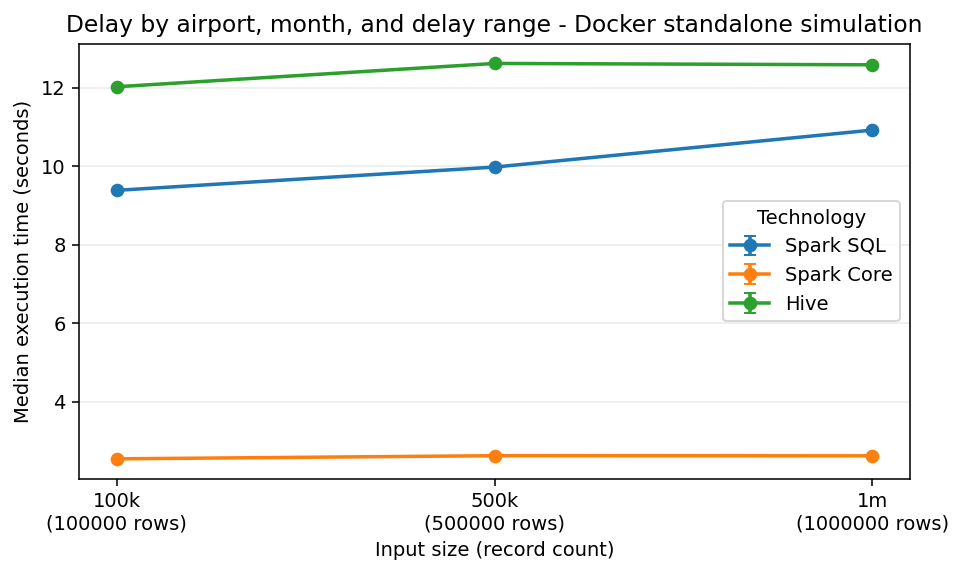
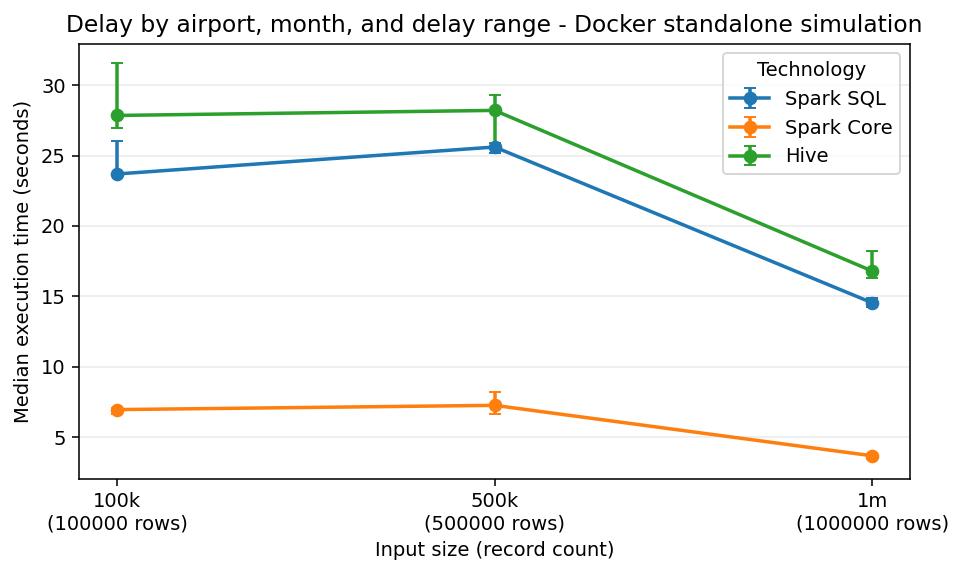
P1.3: rerun required Docker simulation benchmarks
- Add 3-repetition Docker simulation evidence for 100k, 500k, and 1m
- Regenerate benchmark tables, charts, environment summary, and report PDF
- Remove obsolete Docker single-run benchmark note
- Restore canonical local validation outputs after benchmark run
- Verify with focused benchmark/chart/submission tests and submission check

diff --git a/report/tables/benchmark_status.md b/report/tables/benchmark_status.md
@@ -32,24 +32,24 @@
 | aws-emr-larger | full | 7079081 | airline_airport_ranking | Spark SQL | success | 4.475255 | 1738 |  | m5-emr-3core-1m-full | 2026-05-22T00:46:03.790422+00:00 | benchmark_m5-emr-3core-1m-full.csv |
 | aws-emr-larger | full | 7079081 | delay_by_airport_month | Spark Core | success | 1.617607 | 11902 |  | m5-emr-3core-1m-full | 2026-05-22T00:46:03.790422+00:00 | benchmark_m5-emr-3core-1m-full.csv |
 | aws-emr-larger | full | 7079081 | delay_by_airport_month | Spark SQL | success | 16.309206 | 11902 |  | m5-emr-3core-1m-full | 2026-05-22T00:46:03.790422+00:00 | benchmark_m5-emr-3core-1m-full.csv |
-| docker-simulation | 100k | 100000 | airline_airport_ranking | Hive | success | 8.983241 | 1641 |  | 20260521T160042313560Z | 2026-05-21T16:00:42.313560+00:00 | benchmark_20260521T160042313560Z.csv |
-| docker-simulation | 100k | 100000 | airline_airport_ranking | Spark Core | success | 2.325111 | 1641 |  | 20260521T160042313560Z | 2026-05-21T16:00:42.313560+00:00 | benchmark_20260521T160042313560Z.csv |
-| docker-simulation | 100k | 100000 | airline_airport_ranking | Spark SQL | success | 4.009541 | 1641 |  | 20260521T160042313560Z | 2026-05-21T16:00:42.313560+00:00 | benchmark_20260521T160042313560Z.csv |
-| docker-simulation | 100k | 100000 | delay_by_airport_month | Hive | success | 12.025335 | 6367 |  | 20260521T160042313560Z | 2026-05-21T16:00:42.313560+00:00 | benchmark_20260521T160042313560Z.csv |
-| docker-simulation | 100k | 100000 | delay_by_airport_month | Spark Core | success | 2.542541 | 6367 |  | 20260521T160042313560Z | 2026-05-21T16:00:42.313560+00:00 | benchmark_20260521T160042313560Z.csv |
-| docker-simulation | 100k | 100000 | delay_by_airport_month | Spark SQL | success | 9.385332 | 6367 |  | 20260521T160042313560Z | 2026-05-21T16:00:42.313560+00:00 | benchmark_20260521T160042313560Z.csv |
-| docker-simulation | 500k | 500000 | airline_airport_ranking | Hive | success | 8.971989 | 1707 |  | 20260521T160042313560Z | 2026-05-21T16:00:42.313560+00:00 | benchmark_20260521T160042313560Z.csv |
-| docker-simulation | 500k | 500000 | airline_airport_ranking | Spark Core | success | 2.434149 | 1707 |  | 20260521T160042313560Z | 2026-05-21T16:00:42.313560+00:00 | benchmark_20260521T160042313560Z.csv |
-| docker-simulation | 500k | 500000 | airline_airport_ranking | Spark SQL | success | 5.61692 | 1707 |  | 20260521T160042313560Z | 2026-05-21T16:00:42.313560+00:00 | benchmark_20260521T160042313560Z.csv |
-| docker-simulation | 500k | 500000 | delay_by_airport_month | Hive | success | 12.619246 | 9265 |  | 20260521T160042313560Z | 2026-05-21T16:00:42.313560+00:00 | benchmark_20260521T160042313560Z.csv |
-| docker-simulation | 500k | 500000 | delay_by_airport_month | Spark Core | success | 2.622557 | 9265 |  | 20260521T160042313560Z | 2026-05-21T16:00:42.313560+00:00 | benchmark_20260521T160042313560Z.csv |
-| docker-simulation | 500k | 500000 | delay_by_airport_month | Spark SQL | success | 9.977788 | 9265 |  | 20260521T160042313560Z | 2026-05-21T16:00:42.313560+00:00 | benchmark_20260521T160042313560Z.csv |
-| docker-simulation | 1m | 1000000 | airline_airport_ranking | Hive | success | 8.90054 | 1723 |  | 20260521T160042313560Z | 2026-05-21T16:00:42.313560+00:00 | benchmark_20260521T160042313560Z.csv |
-| docker-simulation | 1m | 1000000 | airline_airport_ranking | Spark Core | success | 2.33426 | 1723 |  | 20260521T160042313560Z | 2026-05-21T16:00:42.313560+00:00 | benchmark_20260521T160042313560Z.csv |
-| docker-simulation | 1m | 1000000 | airline_airport_ranking | Spark SQL | success | 4.443603 | 1723 |  | 20260521T160042313560Z | 2026-05-21T16:00:42.313560+00:00 | benchmark_20260521T160042313560Z.csv |
-| docker-simulation | 1m | 1000000 | delay_by_airport_month | Hive | success | 12.584457 | 10206 |  | 20260521T160042313560Z | 2026-05-21T16:00:42.313560+00:00 | benchmark_20260521T160042313560Z.csv |
-| docker-simulation | 1m | 1000000 | delay_by_airport_month | Spark Core | success | 2.619216 | 10206 |  | 20260521T160042313560Z | 2026-05-21T16:00:42.313560+00:00 | benchmark_20260521T160042313560Z.csv |
-| docker-simulation | 1m | 1000000 | delay_by_airport_month | Spark SQL | success | 10.92056 | 10206 |  | 20260521T160042313560Z | 2026-05-21T16:00:42.313560+00:00 | benchmark_20260521T160042313560Z.csv |
+| docker-simulation | 100k | 100000 | airline_airport_ranking | Hive | success | 17.959624 | 1641 |  | 20260522T161751426398Z | 2026-05-22T16:17:51.426398+00:00 | benchmark_20260522T161751426398Z.csv |
+| docker-simulation | 100k | 100000 | airline_airport_ranking | Spark Core | success | 6.213548 | 1641 |  | 20260522T161751426398Z | 2026-05-22T16:17:51.426398+00:00 | benchmark_20260522T161751426398Z.csv |
+| docker-simulation | 100k | 100000 | airline_airport_ranking | Spark SQL | success | 12.685189 | 1641 |  | 20260522T161751426398Z | 2026-05-22T16:17:51.426398+00:00 | benchmark_20260522T161751426398Z.csv |
+| docker-simulation | 100k | 100000 | delay_by_airport_month | Hive | success | 27.848052 | 6367 |  | 20260522T161751426398Z | 2026-05-22T16:17:51.426398+00:00 | benchmark_20260522T161751426398Z.csv |
+| docker-simulation | 100k | 100000 | delay_by_airport_month | Spark Core | success | 7.085845 | 6367 |  | 20260522T161751426398Z | 2026-05-22T16:17:51.426398+00:00 | benchmark_20260522T161751426398Z.csv |
+| docker-simulation | 100k | 100000 | delay_by_airport_month | Spark SQL | success | 26.054633 | 6367 |  | 20260522T161751426398Z | 2026-05-22T16:17:51.426398+00:00 | benchmark_20260522T161751426398Z.csv |
+| docker-simulation | 500k | 500000 | airline_airport_ranking | Hive | success | 10.344782 | 1707 |  | 20260522T161751426398Z | 2026-05-22T16:17:51.426398+00:00 | benchmark_20260522T161751426398Z.csv |
+| docker-simulation | 500k | 500000 | airline_airport_ranking | Spark Core | success | 6.414528 | 1707 |  | 20260522T161751426398Z | 2026-05-22T16:17:51.426398+00:00 | benchmark_20260522T161751426398Z.csv |
+| docker-simulation | 500k | 500000 | airline_airport_ranking | Spark SQL | success | 12.53712 | 1707 |  | 20260522T161751426398Z | 2026-05-22T16:17:51.426398+00:00 | benchmark_20260522T161751426398Z.csv |
+| docker-simulation | 500k | 500000 | delay_by_airport_month | Hive | success | 25.90275 | 9265 |  | 20260522T161751426398Z | 2026-05-22T16:17:51.426398+00:00 | benchmark_20260522T161751426398Z.csv |
+| docker-simulation | 500k | 500000 | delay_by_airport_month | Spark Core | success | 8.201698 | 9265 |  | 20260522T161751426398Z | 2026-05-22T16:17:51.426398+00:00 | benchmark_20260522T161751426398Z.csv |
+| docker-simulation | 500k | 500000 | delay_by_airport_month | Spark SQL | success | 25.677885 | 9265 |  | 20260522T161751426398Z | 2026-05-22T16:17:51.426398+00:00 | benchmark_20260522T161751426398Z.csv |
+| docker-simulation | 1m | 1000000 | airline_airport_ranking | Hive | success | 11.300811 | 1723 |  | 20260522T161751426398Z | 2026-05-22T16:17:51.426398+00:00 | benchmark_20260522T161751426398Z.csv |
+| docker-simulation | 1m | 1000000 | airline_airport_ranking | Spark Core | success | 3.043644 | 1723 |  | 20260522T161751426398Z | 2026-05-22T16:17:51.426398+00:00 | benchmark_20260522T161751426398Z.csv |
+| docker-simulation | 1m | 1000000 | airline_airport_ranking | Spark SQL | success | 5.696732 | 1723 |  | 20260522T161751426398Z | 2026-05-22T16:17:51.426398+00:00 | benchmark_20260522T161751426398Z.csv |
+| docker-simulation | 1m | 1000000 | delay_by_airport_month | Hive | success | 18.24548 | 10206 |  | 20260522T161751426398Z | 2026-05-22T16:17:51.426398+00:00 | benchmark_20260522T161751426398Z.csv |
+| docker-simulation | 1m | 1000000 | delay_by_airport_month | Spark Core | success | 3.829174 | 10206 |  | 20260522T161751426398Z | 2026-05-22T16:17:51.426398+00:00 | benchmark_20260522T161751426398Z.csv |
+| docker-simulation | 1m | 1000000 | delay_by_airport_month | Spark SQL | success | 14.540799 | 10206 |  | 20260522T161751426398Z | 2026-05-22T16:17:51.426398+00:00 | benchmark_20260522T161751426398Z.csv |
 | local | 100k | 100000 | airline_airport_ranking | Hive | success | 13.910368 | 1641 |  | 20260522T133525179005Z | 2026-05-22T13:35:25.179005+00:00 | benchmark_20260522T133525179005Z.csv |
 | local | 100k | 100000 | airline_airport_ranking | MapReduce | success | 6.550597 | 1641 |  | 20260521T153912538439Z | 2026-05-21T15:39:12.538439+00:00 | benchmark_20260521T153912538439Z.csv |
 | local | 100k | 100000 | airline_airport_ranking | Spark Core | success | 0.960478 | 1641 |  | 20260522T133525179005Z | 2026-05-22T13:35:25.179005+00:00 | benchmark_20260522T133525179005Z.csv |

diff --git a/report/tables/benchmark_summary.md b/report/tables/benchmark_summary.md
@@ -32,24 +32,24 @@
 | aws-emr-larger | full | 7079081 | airline_airport_ranking | Spark SQL | 3 | 4.475 | 4.583 | 4.34 | 4.934 | 0.312 | 1738 | m5-emr-3core-1m-full | 2026-05-22T00:46:03.790422+00:00 |
 | aws-emr-larger | full | 7079081 | delay_by_airport_month | Spark Core | 3 | 1.65 | 1.694 | 1.618 | 1.813 | 0.105 | 11902 | m5-emr-3core-1m-full | 2026-05-22T00:46:03.790422+00:00 |
 | aws-emr-larger | full | 7079081 | delay_by_airport_month | Spark SQL | 3 | 16.309 | 15.691 | 14.437 | 16.328 | 1.086 | 11902 | m5-emr-3core-1m-full | 2026-05-22T00:46:03.790422+00:00 |
-| docker-simulation | 100k | 100000 | airline_airport_ranking | Hive | 1 | 8.983 | 8.983 | 8.983 | 8.983 |  | 1641 | 20260521T160042313560Z | 2026-05-21T16:00:42.313560+00:00 |
-| docker-simulation | 100k | 100000 | airline_airport_ranking | Spark Core | 1 | 2.325 | 2.325 | 2.325 | 2.325 |  | 1641 | 20260521T160042313560Z | 2026-05-21T16:00:42.313560+00:00 |
-| docker-simulation | 100k | 100000 | airline_airport_ranking | Spark SQL | 1 | 4.01 | 4.01 | 4.01 | 4.01 |  | 1641 | 20260521T160042313560Z | 2026-05-21T16:00:42.313560+00:00 |
-| docker-simulation | 100k | 100000 | delay_by_airport_month | Hive | 1 | 12.025 | 12.025 | 12.025 | 12.025 |  | 6367 | 20260521T160042313560Z | 2026-05-21T16:00:42.313560+00:00 |
-| docker-simulation | 100k | 100000 | delay_by_airport_month | Spark Core | 1 | 2.543 | 2.543 | 2.543 | 2.543 |  | 6367 | 20260521T160042313560Z | 2026-05-21T16:00:42.313560+00:00 |
-| docker-simulation | 100k | 100000 | delay_by_airport_month | Spark SQL | 1 | 9.385 | 9.385 | 9.385 | 9.385 |  | 6367 | 20260521T160042313560Z | 2026-05-21T16:00:42.313560+00:00 |
-| docker-simulation | 500k | 500000 | airline_airport_ranking | Hive | 1 | 8.972 | 8.972 | 8.972 | 8.972 |  | 1707 | 20260521T160042313560Z | 2026-05-21T16:00:42.313560+00:00 |
-| docker-simulation | 500k | 500000 | airline_airport_ranking | Spark Core | 1 | 2.434 | 2.434 | 2.434 | 2.434 |  | 1707 | 20260521T160042313560Z | 2026-05-21T16:00:42.313560+00:00 |
-| docker-simulation | 500k | 500000 | airline_airport_ranking | Spark SQL | 1 | 5.617 | 5.617 | 5.617 | 5.617 |  | 1707 | 20260521T160042313560Z | 2026-05-21T16:00:42.313560+00:00 |
-| docker-simulation | 500k | 500000 | delay_by_airport_month | Hive | 1 | 12.619 | 12.619 | 12.619 | 12.619 |  | 9265 | 20260521T160042313560Z | 2026-05-21T16:00:42.313560+00:00 |
-| docker-simulation | 500k | 500000 | delay_by_airport_month | Spark Core | 1 | 2.623 | 2.623 | 2.623 | 2.623 |  | 9265 | 20260521T160042313560Z | 2026-05-21T16:00:42.313560+00:00 |
-| docker-simulation | 500k | 500000 | delay_by_airport_month | Spark SQL | 1 | 9.978 | 9.978 | 9.978 | 9.978 |  | 9265 | 20260521T160042313560Z | 2026-05-21T16:00:42.313560+00:00 |
-| docker-simulation | 1m | 1000000 | airline_airport_ranking | Hive | 1 | 8.901 | 8.901 | 8.901 | 8.901 |  | 1723 | 20260521T160042313560Z | 2026-05-21T16:00:42.313560+00:00 |
-| docker-simulation | 1m | 1000000 | airline_airport_ranking | Spark Core | 1 | 2.334 | 2.334 | 2.334 | 2.334 |  | 1723 | 20260521T160042313560Z | 2026-05-21T16:00:42.313560+00:00 |
-| docker-simulation | 1m | 1000000 | airline_airport_ranking | Spark SQL | 1 | 4.444 | 4.444 | 4.444 | 4.444 |  | 1723 | 20260521T160042313560Z | 2026-05-21T16:00:42.313560+00:00 |
-| docker-simulation | 1m | 1000000 | delay_by_airport_month | Hive | 1 | 12.584 | 12.584 | 12.584 | 12.584 |  | 10206 | 20260521T160042313560Z | 2026-05-21T16:00:42.313560+00:00 |
-| docker-simulation | 1m | 1000000 | delay_by_airport_month | Spark Core | 1 | 2.619 | 2.619 | 2.619 | 2.619 |  | 10206 | 20260521T160042313560Z | 2026-05-21T16:00:42.313560+00:00 |
-| docker-simulation | 1m | 1000000 | delay_by_airport_month | Spark SQL | 1 | 10.921 | 10.921 | 10.921 | 10.921 |  | 10206 | 20260521T160042313560Z | 2026-05-21T16:00:42.313560+00:00 |
+| docker-simulation | 100k | 100000 | airline_airport_ranking | Hive | 3 | 18.288 | 18.243 | 17.96 | 18.481 | 0.263 | 1641 | 20260522T161751426398Z | 2026-05-22T16:17:51.426398+00:00 |
+| docker-simulation | 100k | 100000 | airline_airport_ranking | Spark Core | 3 | 6.214 | 6.142 | 5.99 | 6.223 | 0.132 | 1641 | 20260522T161751426398Z | 2026-05-22T16:17:51.426398+00:00 |
+| docker-simulation | 100k | 100000 | airline_airport_ranking | Spark SQL | 3 | 12.685 | 13.654 | 11.637 | 16.64 | 2.638 | 1641 | 20260522T161751426398Z | 2026-05-22T16:17:51.426398+00:00 |
+| docker-simulation | 100k | 100000 | delay_by_airport_month | Hive | 3 | 27.848 | 28.776 | 26.939 | 31.542 | 2.438 | 6367 | 20260522T161751426398Z | 2026-05-22T16:17:51.426398+00:00 |
+| docker-simulation | 100k | 100000 | delay_by_airport_month | Spark Core | 3 | 6.954 | 6.893 | 6.639 | 7.086 | 0.23 | 6367 | 20260522T161751426398Z | 2026-05-22T16:17:51.426398+00:00 |
+| docker-simulation | 100k | 100000 | delay_by_airport_month | Spark SQL | 3 | 23.69 | 24.446 | 23.594 | 26.055 | 1.394 | 6367 | 20260522T161751426398Z | 2026-05-22T16:17:51.426398+00:00 |
+| docker-simulation | 500k | 500000 | airline_airport_ranking | Hive | 3 | 18.131 | 15.771 | 10.345 | 18.836 | 4.712 | 1707 | 20260522T161751426398Z | 2026-05-22T16:17:51.426398+00:00 |
+| docker-simulation | 500k | 500000 | airline_airport_ranking | Spark Core | 3 | 5.974 | 6.105 | 5.926 | 6.415 | 0.269 | 1707 | 20260522T161751426398Z | 2026-05-22T16:17:51.426398+00:00 |
+| docker-simulation | 500k | 500000 | airline_airport_ranking | Spark SQL | 3 | 12.537 | 13.133 | 12.01 | 14.851 | 1.511 | 1707 | 20260522T161751426398Z | 2026-05-22T16:17:51.426398+00:00 |
+| docker-simulation | 500k | 500000 | delay_by_airport_month | Hive | 3 | 28.206 | 27.802 | 25.903 | 29.296 | 1.733 | 9265 | 20260522T161751426398Z | 2026-05-22T16:17:51.426398+00:00 |
+| docker-simulation | 500k | 500000 | delay_by_airport_month | Spark Core | 3 | 7.256 | 7.357 | 6.613 | 8.202 | 0.799 | 9265 | 20260522T161751426398Z | 2026-05-22T16:17:51.426398+00:00 |
+| docker-simulation | 500k | 500000 | delay_by_airport_month | Spark SQL | 3 | 25.606 | 25.493 | 25.197 | 25.678 | 0.26 | 9265 | 20260522T161751426398Z | 2026-05-22T16:17:51.426398+00:00 |
+| docker-simulation | 1m | 1000000 | airline_airport_ranking | Hive | 3 | 10.094 | 10.491 | 10.077 | 11.301 | 0.702 | 1723 | 20260522T161751426398Z | 2026-05-22T16:17:51.426398+00:00 |
+| docker-simulation | 1m | 1000000 | airline_airport_ranking | Spark Core | 3 | 3.044 | 3.017 | 2.93 | 3.079 | 0.078 | 1723 | 20260522T161751426398Z | 2026-05-22T16:17:51.426398+00:00 |
+| docker-simulation | 1m | 1000000 | airline_airport_ranking | Spark SQL | 3 | 5.869 | 6.162 | 5.697 | 6.922 | 0.663 | 1723 | 20260522T161751426398Z | 2026-05-22T16:17:51.426398+00:00 |
+| docker-simulation | 1m | 1000000 | delay_by_airport_month | Hive | 3 | 16.797 | 17.116 | 16.305 | 18.245 | 1.009 | 10206 | 20260522T161751426398Z | 2026-05-22T16:17:51.426398+00:00 |
+| docker-simulation | 1m | 1000000 | delay_by_airport_month | Spark Core | 3 | 3.673 | 3.653 | 3.457 | 3.829 | 0.187 | 10206 | 20260522T161751426398Z | 2026-05-22T16:17:51.426398+00:00 |
+| docker-simulation | 1m | 1000000 | delay_by_airport_month | Spark SQL | 3 | 14.541 | 14.559 | 14.242 | 14.895 | 0.327 | 10206 | 20260522T161751426398Z | 2026-05-22T16:17:51.426398+00:00 |
 | local | 100k | 100000 | airline_airport_ranking | Hive | 3 | 14.322 | 14.207 | 13.91 | 14.389 | 0.259 | 1641 | 20260522T133525179005Z | 2026-05-22T13:35:25.179005+00:00 |
 | local | 100k | 100000 | airline_airport_ranking | MapReduce | 1 | 6.551 | 6.551 | 6.551 | 6.551 |  | 1641 | 20260521T153912538439Z | 2026-05-21T15:39:12.538439+00:00 |
 | local | 100k | 100000 | airline_airport_ranking | Spark Core | 3 | 0.74 | 0.807 | 0.719 | 0.96 | 0.134 | 1641 | 20260522T133525179005Z | 2026-05-22T13:35:25.179005+00:00 |

diff --git a/report/tables/rows_per_second.md b/report/tables/rows_per_second.md
@@ -32,24 +32,24 @@
 | aws-emr-larger | full | 7079081 | airline_airport_ranking | Spark SQL | 4.475 | 1581827.404 |
 | aws-emr-larger | full | 7079081 | delay_by_airport_month | Spark Core | 1.65 | 4291101.113 |
 | aws-emr-larger | full | 7079081 | delay_by_airport_month | Spark SQL | 16.309 | 434054.3 |
-| docker-simulation | 100k | 100000 | airline_airport_ranking | Hive | 8.983 | 11131.84 |
-| docker-simulation | 100k | 100000 | airline_airport_ranking | Spark Core | 2.325 | 43008.699 |
-| docker-simulation | 100k | 100000 | airline_airport_ranking | Spark SQL | 4.01 | 24940.511 |
-| docker-simulation | 100k | 100000 | delay_by_airport_month | Hive | 12.025 | 8315.777 |
-| docker-simulation | 100k | 100000 | delay_by_airport_month | Spark Core | 2.543 | 39330.733 |
-| docker-simulation | 100k | 100000 | delay_by_airport_month | Spark SQL | 9.385 | 10654.924 |
-| docker-simulation | 500k | 500000 | airline_airport_ranking | Hive | 8.972 | 55729.003 |
-| docker-simulation | 500k | 500000 | airline_airport_ranking | Spark Core | 2.434 | 205410.597 |
-| docker-simulation | 500k | 500000 | airline_airport_ranking | Spark SQL | 5.617 | 89016.757 |
-| docker-simulation | 500k | 500000 | delay_by_airport_month | Hive | 12.619 | 39622.019 |
-| docker-simulation | 500k | 500000 | delay_by_airport_month | Spark Core | 2.623 | 190653.625 |
-| docker-simulation | 500k | 500000 | delay_by_airport_month | Spark SQL | 9.978 | 50111.307 |
-| docker-simulation | 1m | 1000000 | airline_airport_ranking | Hive | 8.901 | 112352.734 |
-| docker-simulation | 1m | 1000000 | airline_airport_ranking | Spark Core | 2.334 | 428401.292 |
-| docker-simulation | 1m | 1000000 | airline_airport_ranking | Spark SQL | 4.444 | 225042.606 |
-| docker-simulation | 1m | 1000000 | delay_by_airport_month | Hive | 12.584 | 79463.103 |
-| docker-simulation | 1m | 1000000 | delay_by_airport_month | Spark Core | 2.619 | 381793.636 |
-| docker-simulation | 1m | 1000000 | delay_by_airport_month | Spark SQL | 10.921 | 91570.396 |
+| docker-simulation | 100k | 100000 | airline_airport_ranking | Hive | 18.288 | 5467.964 |
+| docker-simulation | 100k | 100000 | airline_airport_ranking | Spark Core | 6.214 | 16093.865 |
+| docker-simulation | 100k | 100000 | airline_airport_ranking | Spark SQL | 12.685 | 7883.209 |
+| docker-simulation | 100k | 100000 | delay_by_airport_month | Hive | 27.848 | 3590.915 |
+| docker-simulation | 100k | 100000 | delay_by_airport_month | Spark Core | 6.954 | 14379.836 |
+| docker-simulation | 100k | 100000 | delay_by_airport_month | Spark SQL | 23.69 | 4221.162 |
+| docker-simulation | 500k | 500000 | airline_airport_ranking | Hive | 18.131 | 27577.638 |
+| docker-simulation | 500k | 500000 | airline_airport_ranking | Spark Core | 5.974 | 83691.729 |
+| docker-simulation | 500k | 500000 | airline_airport_ranking | Spark SQL | 12.537 | 39881.568 |
+| docker-simulation | 500k | 500000 | delay_by_airport_month | Hive | 28.206 | 17726.453 |
+| docker-simulation | 500k | 500000 | delay_by_airport_month | Spark Core | 7.256 | 68906.809 |
+| docker-simulation | 500k | 500000 | delay_by_airport_month | Spark SQL | 25.606 | 19526.78 |
+| docker-simulation | 1m | 1000000 | airline_airport_ranking | Hive | 10.094 | 99067.213 |
+| docker-simulation | 1m | 1000000 | airline_airport_ranking | Spark Core | 3.044 | 328553.536 |
+| docker-simulation | 1m | 1000000 | airline_airport_ranking | Spark SQL | 5.869 | 170394.385 |
+| docker-simulation | 1m | 1000000 | delay_by_airport_month | Hive | 16.797 | 59535.05 |
+| docker-simulation | 1m | 1000000 | delay_by_airport_month | Spark Core | 3.673 | 272268.278 |
+| docker-simulation | 1m | 1000000 | delay_by_airport_month | Spark SQL | 14.541 | 68772.012 |
 | local | 100k | 100000 | airline_airport_ranking | Hive | 14.322 | 6982.271 |
 | local | 100k | 100000 | airline_airport_ranking | MapReduce | 6.551 | 15265.784 |
 | local | 100k | 100000 | airline_airport_ranking | Spark Core | 0.74 | 135131.483 |

diff --git a/report/tables/scalability_ratios.md b/report/tables/scalability_ratios.md
@@ -25,23 +25,23 @@
 | aws-emr | full | 7079081 | delay_by_airport_month | Spark SQL | 0.979 | 70.791 | 72.28 |
 | aws-emr | 14m | 14000000 | delay_by_airport_month | Spark SQL | 1.146 | 140 | 122.138 |
 | docker-simulation | 100k | 100000 | airline_airport_ranking | Hive | 1 | 1 | 1 |
-| docker-simulation | 500k | 500000 | airline_airport_ranking | Hive | 0.999 | 5 | 5.006 |
-| docker-simulation | 1m | 1000000 | airline_airport_ranking | Hive | 0.991 | 10 | 10.093 |
+| docker-simulation | 500k | 500000 | airline_airport_ranking | Hive | 0.991 | 5 | 5.043 |
+| docker-simulation | 1m | 1000000 | airline_airport_ranking | Hive | 0.552 | 10 | 18.118 |
 | docker-simulation | 100k | 100000 | airline_airport_ranking | Spark Core | 1 | 1 | 1 |
-| docker-simulation | 500k | 500000 | airline_airport_ranking | Spark Core | 1.047 | 5 | 4.776 |
-| docker-simulation | 1m | 1000000 | airline_airport_ranking | Spark Core | 1.004 | 10 | 9.961 |
+| docker-simulation | 500k | 500000 | airline_airport_ranking | Spark Core | 0.961 | 5 | 5.2 |
+| docker-simulation | 1m | 1000000 | airline_airport_ranking | Spark Core | 0.49 | 10 | 20.415 |
 | docker-simulation | 100k | 100000 | airline_airport_ranking | Spark SQL | 1 | 1 | 1 |
-| docker-simulation | 500k | 500000 | airline_airport_ranking | Spark SQL | 1.401 | 5 | 3.569 |
-| docker-simulation | 1m | 1000000 | airline_airport_ranking | Spark SQL | 1.108 | 10 | 9.023 |
+| docker-simulation | 500k | 500000 | airline_airport_ranking | Spark SQL | 0.988 | 5 | 5.059 |
+| docker-simulation | 1m | 1000000 | airline_airport_ranking | Spark SQL | 0.463 | 10 | 21.615 |
 | docker-simulation | 100k | 100000 | delay_by_airport_month | Hive | 1 | 1 | 1 |
-| docker-simulation | 500k | 500000 | delay_by_airport_month | Hive | 1.049 | 5 | 4.765 |
-| docker-simulation | 1m | 1000000 | delay_by_airport_month | Hive | 1.046 | 10 | 9.556 |
+| docker-simulation | 500k | 500000 | delay_by_airport_month | Hive | 1.013 | 5 | 4.936 |
+| docker-simulation | 1m | 1000000 | delay_by_airport_month | Hive | 0.603 | 10 | 16.579 |
 | docker-simulation | 100k | 100000 | delay_by_airport_month | Spark Core | 1 | 1 | 1 |
-| docker-simulation | 500k | 500000 | delay_by_airport_month | Spark Core | 1.031 | 5 | 4.847 |
-| docker-simulation | 1m | 1000000 | delay_by_airport_month | Spark Core | 1.03 | 10 | 9.707 |
+| docker-simulation | 500k | 500000 | delay_by_airport_month | Spark Core | 1.043 | 5 | 4.792 |
+| docker-simulation | 1m | 1000000 | delay_by_airport_month | Spark Core | 0.528 | 10 | 18.934 |
 | docker-simulation | 100k | 100000 | delay_by_airport_month | Spark SQL | 1 | 1 | 1 |
-| docker-simulation | 500k | 500000 | delay_by_airport_month | Spark SQL | 1.063 | 5 | 4.703 |
-| docker-simulation | 1m | 1000000 | delay_by_airport_month | Spark SQL | 1.164 | 10 | 8.594 |
+| docker-simulation | 500k | 500000 | delay_by_airport_month | Spark SQL | 1.081 | 5 | 4.626 |
+| docker-simulation | 1m | 1000000 | delay_by_airport_month | Spark SQL | 0.614 | 10 | 16.292 |
 | local | 100k | 100000 | airline_airport_ranking | Hive | 1 | 1 | 1 |
 | local | 500k | 500000 | airline_airport_ranking | Hive | 0.986 | 5 | 5.07 |
 | local | 1m | 1000000 | airline_airport_ranking | Hive | 1.116 | 10 | 8.96 |

diff --git a/report/tables/benchmark_pivot.md b/report/tables/benchmark_pivot.md
@@ -16,12 +16,12 @@
 | aws-emr-larger | 1m | 1000000 | delay_by_airport_month | 14.374 | 1.679 |  |  |
 | aws-emr-larger | full | 7079081 | airline_airport_ranking | 4.475 | 0.919 |  |  |
 | aws-emr-larger | full | 7079081 | delay_by_airport_month | 16.309 | 1.65 |  |  |
-| docker-simulation | 100k | 100000 | airline_airport_ranking | 4.01 | 2.325 | 8.983 |  |
-| docker-simulation | 100k | 100000 | delay_by_airport_month | 9.385 | 2.543 | 12.025 |  |
-| docker-simulation | 500k | 500000 | airline_airport_ranking | 5.617 | 2.434 | 8.972 |  |
-| docker-simulation | 500k | 500000 | delay_by_airport_month | 9.978 | 2.623 | 12.619 |  |
-| docker-simulation | 1m | 1000000 | airline_airport_ranking | 4.444 | 2.334 | 8.901 |  |
-| docker-simulation | 1m | 1000000 | delay_by_airport_month | 10.921 | 2.619 | 12.584 |  |
+| docker-simulation | 100k | 100000 | airline_airport_ranking | 12.685 | 6.214 | 18.288 |  |
+| docker-simulation | 100k | 100000 | delay_by_airport_month | 23.69 | 6.954 | 27.848 |  |
+| docker-simulation | 500k | 500000 | airline_airport_ranking | 12.537 | 5.974 | 18.131 |  |
+| docker-simulation | 500k | 500000 | delay_by_airport_month | 25.606 | 7.256 | 28.206 |  |
+| docker-simulation | 1m | 1000000 | airline_airport_ranking | 5.869 | 3.044 | 10.094 |  |
+| docker-simulation | 1m | 1000000 | delay_by_airport_month | 14.541 | 3.673 | 16.797 |  |
 | local | 100k | 100000 | airline_airport_ranking | 1.744 | 0.74 | 14.322 | 6.551 |
 | local | 100k | 100000 | delay_by_airport_month | 7.966 | 1.002 | 19.841 | 7.49 |
 | local | 500k | 500000 | airline_airport_ranking | 1.853 | 0.783 | 14.125 |  |

diff --git a/report/tables/speedup.md b/report/tables/speedup.md
@@ -16,12 +16,12 @@
 | aws-emr-larger | 1m | 1000000 | delay_by_airport_month | 8.563 |  |  |
 | aws-emr-larger | full | 7079081 | airline_airport_ranking | 4.872 |  |  |
 | aws-emr-larger | full | 7079081 | delay_by_airport_month | 9.886 |  |  |
-| docker-simulation | 100k | 100000 | airline_airport_ranking | 1.724 | 2.24 | 3.864 |
-| docker-simulation | 100k | 100000 | delay_by_airport_month | 3.691 | 1.281 | 4.73 |
-| docker-simulation | 500k | 500000 | airline_airport_ranking | 2.308 | 1.597 | 3.686 |
-| docker-simulation | 500k | 500000 | delay_by_airport_month | 3.805 | 1.265 | 4.812 |
-| docker-simulation | 1m | 1000000 | airline_airport_ranking | 1.904 | 2.003 | 3.813 |
-| docker-simulation | 1m | 1000000 | delay_by_airport_month | 4.169 | 1.152 | 4.805 |
+| docker-simulation | 100k | 100000 | airline_airport_ranking | 2.042 | 1.442 | 2.943 |
+| docker-simulation | 100k | 100000 | delay_by_airport_month | 3.407 | 1.176 | 4.005 |
+| docker-simulation | 500k | 500000 | airline_airport_ranking | 2.099 | 1.446 | 3.035 |
+| docker-simulation | 500k | 500000 | delay_by_airport_month | 3.529 | 1.102 | 3.887 |
+| docker-simulation | 1m | 1000000 | airline_airport_ranking | 1.928 | 1.72 | 3.316 |
+| docker-simulation | 1m | 1000000 | delay_by_airport_month | 3.959 | 1.155 | 4.573 |
 | local | 100k | 100000 | airline_airport_ranking | 2.357 | 8.21 | 19.354 |
 | local | 100k | 100000 | delay_by_airport_month | 7.953 | 2.491 | 19.81 |
 | local | 500k | 500000 | airline_airport_ranking | 2.365 | 7.625 | 18.03 |

diff --git a/report/tables/cluster_size_comparison.md b/report/tables/cluster_size_comparison.md
@@ -1,9 +1,9 @@
 | input_label | records | job_name | technology | local_median_duration_seconds | docker_simulation_median_duration_seconds | emr_baseline_median_duration_seconds | emr_larger_median_duration_seconds | emr_larger_vs_baseline_speedup | local_run_id | docker_simulation_run_id | emr_baseline_run_id | emr_larger_run_id | notes |
 | --- | --- | --- | --- | --- | --- | --- | --- | --- | --- | --- | --- | --- | --- |
-| 1m | 1000000 | delay_by_airport_month | Spark SQL | 12.181 | 10.921 | 15.126 | 14.374 | 1.052 | 20260522T133525179005Z | 20260521T160042313560Z | m4-emr-final-2 | m5-emr-3core-1m-full |  |
-| 1m | 1000000 | delay_by_airport_month | Spark Core | 1.195 | 2.619 | 1.923 | 1.679 | 1.146 | 20260522T133525179005Z | 20260521T160042313560Z | m4-emr-final-2 | m5-emr-3core-1m-full |  |
-| 1m | 1000000 | airline_airport_ranking | Spark SQL | 2.5 | 4.444 | 4.052 | 4.087 | 0.991 | 20260522T133525179005Z | 20260521T160042313560Z | m4-emr-final-2 | m5-emr-3core-1m-full |  |
-| 1m | 1000000 | airline_airport_ranking | Spark Core | 0.796 | 2.334 | 1.243 | 1.018 | 1.221 | 20260522T133525179005Z | 20260521T160042313560Z | m4-emr-final-2 | m5-emr-3core-1m-full |  |
+| 1m | 1000000 | delay_by_airport_month | Spark SQL | 12.181 | 14.541 | 15.126 | 14.374 | 1.052 | 20260522T133525179005Z | 20260522T161751426398Z | m4-emr-final-2 | m5-emr-3core-1m-full |  |
+| 1m | 1000000 | delay_by_airport_month | Spark Core | 1.195 | 3.673 | 1.923 | 1.679 | 1.146 | 20260522T133525179005Z | 20260522T161751426398Z | m4-emr-final-2 | m5-emr-3core-1m-full |  |
+| 1m | 1000000 | airline_airport_ranking | Spark SQL | 2.5 | 5.869 | 4.052 | 4.087 | 0.991 | 20260522T133525179005Z | 20260522T161751426398Z | m4-emr-final-2 | m5-emr-3core-1m-full |  |
+| 1m | 1000000 | airline_airport_ranking | Spark Core | 0.796 | 3.044 | 1.243 | 1.018 | 1.221 | 20260522T133525179005Z | 20260522T161751426398Z | m4-emr-final-2 | m5-emr-3core-1m-full |  |
 | full | 7079081 | delay_by_airport_month | Spark SQL | 12.997 | N/A | 15.505 | 16.309 | 0.951 | 20260522T133525179005Z | N/A | m4-emr-final-2 | m5-emr-3core-1m-full | Docker standalone simulation full input was not run. |
 | full | 7079081 | delay_by_airport_month | Spark Core | 1.221 | N/A | 1.918 | 1.65 | 1.163 | 20260522T133525179005Z | N/A | m4-emr-final-2 | m5-emr-3core-1m-full | Docker standalone simulation full input was not run. |
 | full | 7079081 | airline_airport_ranking | Spark SQL | 3.4 | N/A | 4.302 | 4.475 | 0.961 | 20260522T133525179005Z | N/A | m4-emr-final-2 | m5-emr-3core-1m-full | Docker standalone simulation full input was not run. |

diff --git a/report/tables/environment_summary.md b/report/tables/environment_summary.md
@@ -1,6 +1,6 @@
 | category | item | value | source |
 | --- | --- | --- | --- |
-| campaign | summary_generated_at_utc | 2026-05-22T15:27:07.187679+00:00 | script timestamp |
+| campaign | summary_generated_at_utc | 2026-05-22T16:56:10.187214+00:00 | script timestamp |
 | host | os | Windows-11-10.0.26200-SP0 | platform.platform |
 | host | python_executable | C:\Users\lucap\Documents\VSC Repository\flight-delay-big-data-analysis\.venv\Scripts\python.exe | sys.executable |
 | host | python_version | 3.12.2 | platform.python_version |
@@ -9,7 +9,7 @@
 | host | logical_cores | 16 | psutil |
 | host | ram_bytes | 33598853120 | psutil |
 | host | project_drive_total_bytes | 957397069824 | psutil.disk_usage |
-| host | project_drive_free_bytes | 541045280768 | psutil.disk_usage |
+| host | project_drive_free_bytes | 533367734272 | psutil.disk_usage |
 | host | windows_cpu_model | AMD Ryzen AI 7 350 w/ Radeon 860M | Win32_Processor |
 | host | windows_os_detail | Microsoft Windows 11 Home 10.0.26200 build 26200 64-bit | Win32_OperatingSystem |
 | host | disk_type | WD PC SN5000S SDEPMSJ-1T00-1101; media=SSD; bus=NVMe; size=1024209543168 | Get-PhysicalDisk |